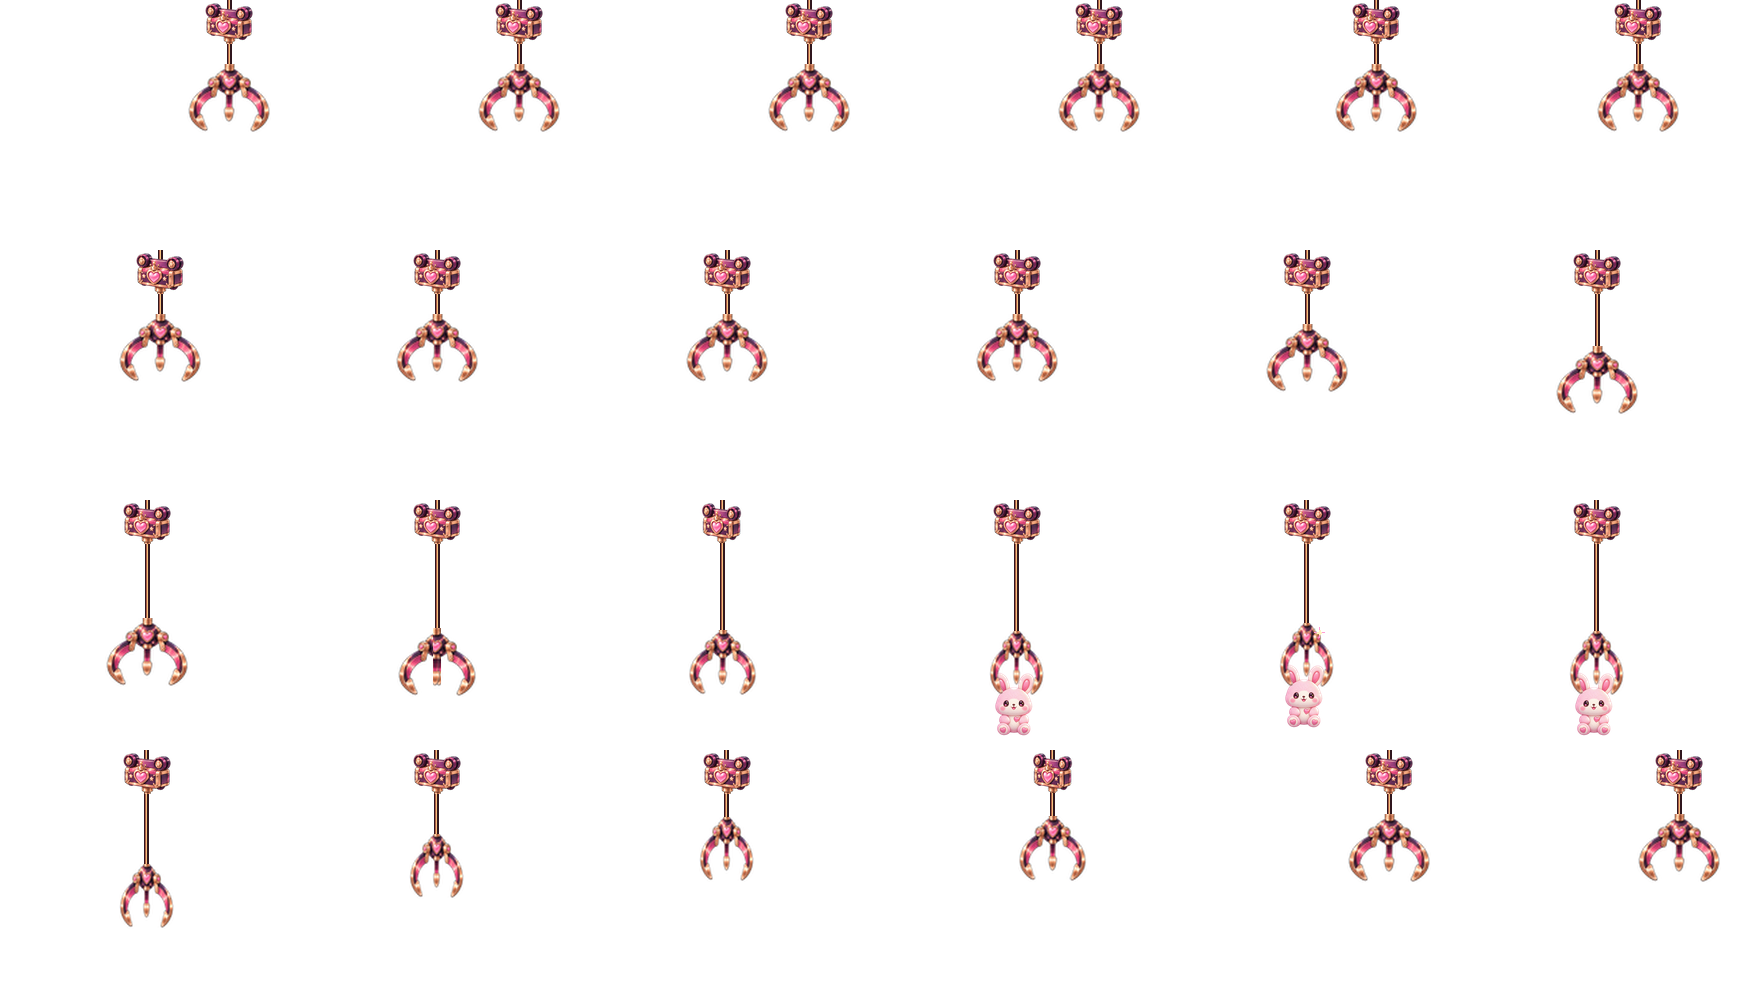
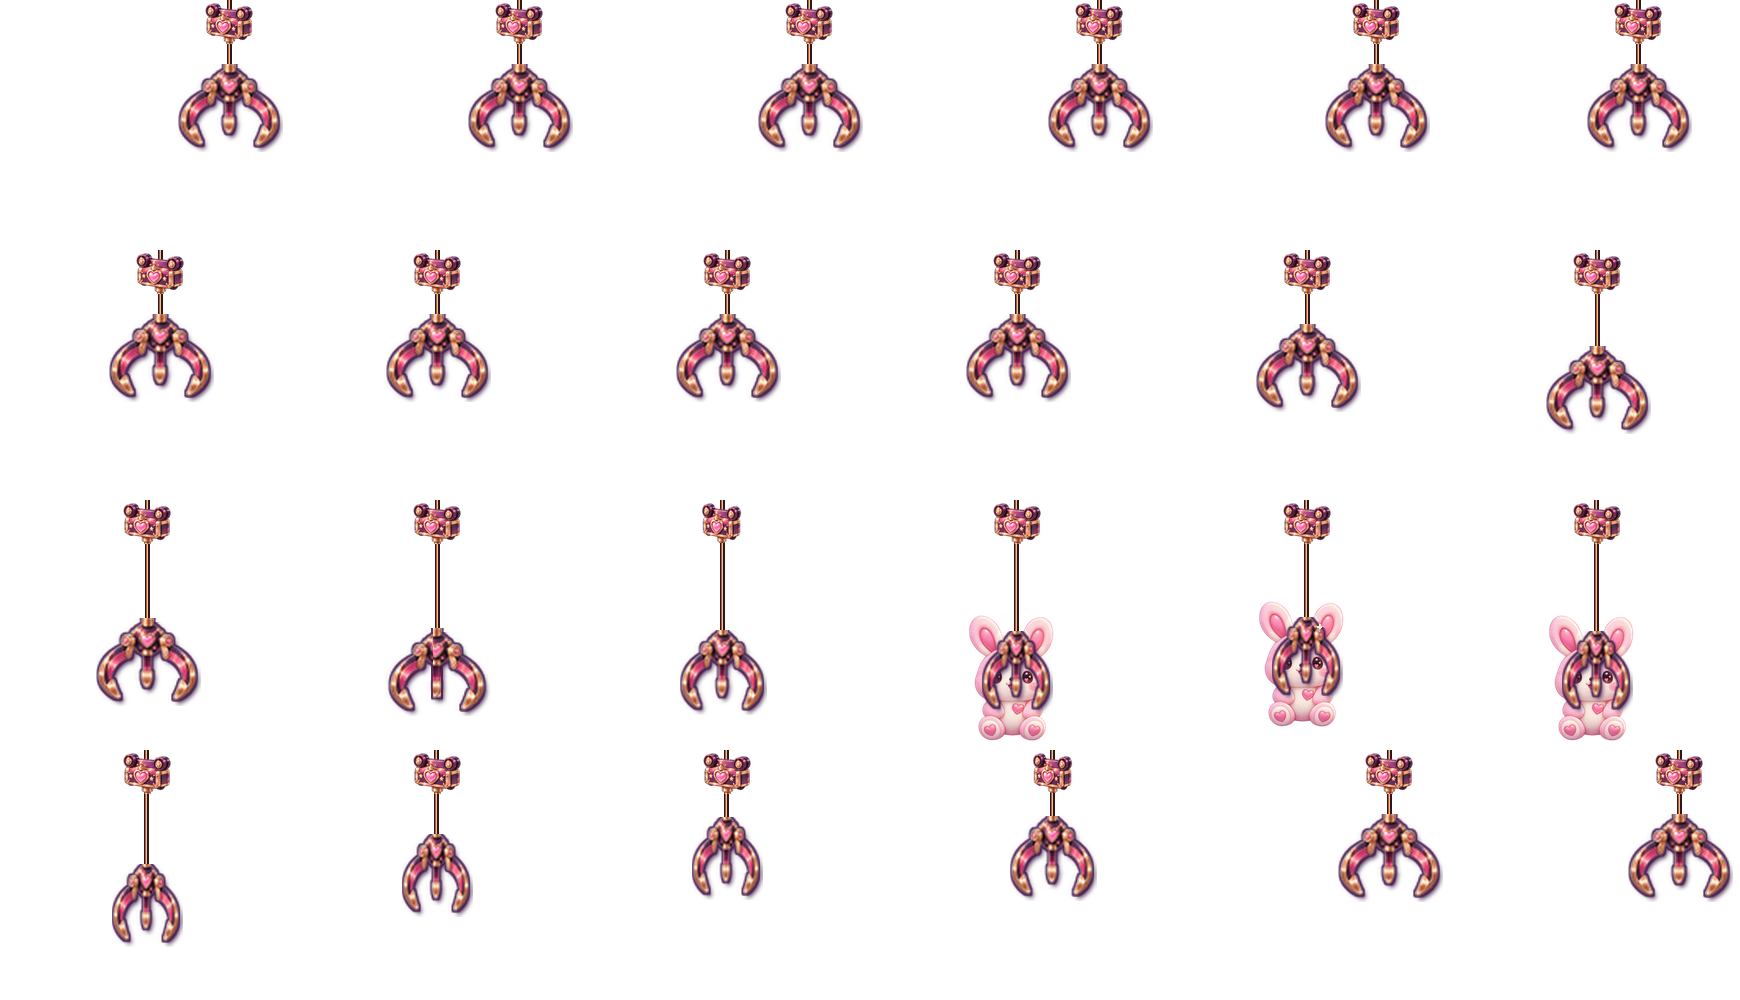
Strengthen gacha pickup and mobile animation

diff --git a/src/shooter/maps/GachaArcadeField.jsx b/src/shooter/maps/GachaArcadeField.jsx
@@ -36,6 +36,9 @@ export default function GachaArcadeField({ active = true, runtimeAnimation }) {
         const frameIndex = Math.floor((phasedElapsedMs * sprite.framesPerSecond) / 1000) % sprite.frameCount;
         if (element.dataset.frameIndex !== String(frameIndex)) {
           setSpriteFrame(element, frameIndex, sprite.columns, sprite.rows);
+          if (sprite.rotationTurns) {
+            element.style.transform = `rotate(${(frameIndex / sprite.frameCount) * sprite.rotationTurns * 360}deg)`;
+          }
         }
       });
     }, { framesPerSecond: runtimeAnimation.clockFramesPerSecond });
@@ -66,6 +69,7 @@ export default function GachaArcadeField({ active = true, runtimeAnimation }) {
             height: `${(sprite.placement.height / runtimeAnimation.canvasHeight) * 100}%`,
             left: `${(sprite.placement.x / runtimeAnimation.canvasWidth) * 100}%`,
             top: `${(sprite.placement.y / runtimeAnimation.canvasHeight) * 100}%`,
+            transformOrigin: sprite.rotationTurns ? "50% 50%" : undefined,
             width: `${(sprite.placement.width / runtimeAnimation.canvasWidth) * 100}%`,
           }}
         />

diff --git a/src/shooter/maps/skins/gachaArcade.js b/src/shooter/maps/skins/gachaArcade.js
@@ -80,12 +80,13 @@ const sprites = Object.freeze([
     columns: 6,
     rows: 4,
     frameCount: 24,
-    framesPerSecond: 6,
-    durationMs: 4000,
+    framesPerSecond: 8,
+    durationMs: 3000,
     delayMs: 0,
     phaseOffsetMs: 1000,
     scaleChange: false,
-    placement: Object.freeze({ x: 388, y: 260, width: 760, height: 601 }),
+    rotationTurns: 1,
+    placement: Object.freeze({ x: 538, y: 379, width: 460, height: 364 }),
   },
 ].map((sprite) => Object.freeze(sprite)));
 
@@ -105,7 +106,7 @@ export const GACHA_ARCADE_MAP_SKIN = Object.freeze({
       mode: "full",
       audit: Object.freeze({
         completed: true,
-        contentFingerprint: "6771cc4b",
+        contentFingerprint: "abc2d352",
         activeCssAnimations: 0,
         ambientEventLayers: 0,
         filteredElements: 0,

diff --git a/scripts/build-gacha-claw-runtime.py b/scripts/build-gacha-claw-runtime.py
@@ -2,7 +2,7 @@
 
 from pathlib import Path
 
-from PIL import Image, ImageDraw
+from PIL import Image, ImageChops, ImageDraw, ImageFilter
 
 
 ROOT = Path(__file__).resolve().parents[1]
@@ -16,7 +16,7 @@ SHEETS = (
 )
 
 PLUSH_SOURCE = SOURCE_DIR / "claw_bunny_plush_source.png"
-CLAW_RENDER_SCALE = 1.35
+CLAW_RENDER_SCALE = 1.65
 
 
 def broad_row_groups(alpha: Image.Image) -> list[list[int]]:
@@ -41,6 +41,21 @@ def add_tension_glint(frame: Image.Image, x: int, y: int) -> None:
     draw.line((x, y - 2, x, y + 2), fill=pale, width=2)
 
 
+def add_claw_with_depth(frame: Image.Image, claw: Image.Image, x: int, y: int) -> None:
+    alpha = claw.getchannel("A")
+    shadow_alpha = alpha.filter(ImageFilter.GaussianBlur(2)).point(lambda value: round(value * 0.72))
+    shadow = Image.new("RGBA", claw.size, (47, 17, 58, 0))
+    shadow.putalpha(shadow_alpha)
+    frame.alpha_composite(shadow, (x + 3, y + 4))
+
+    expanded_alpha = alpha.filter(ImageFilter.MaxFilter(5))
+    outline_alpha = ImageChops.subtract(expanded_alpha, alpha).point(lambda value: round(value * 0.9))
+    outline = Image.new("RGBA", claw.size, (74, 24, 78, 0))
+    outline.putalpha(outline_alpha)
+    frame.alpha_composite(outline, (x, y))
+    frame.alpha_composite(claw, (x, y))
+
+
 def build_runtime_sheet(source_name: str, output_name: str, frame_width: int, frame_height: int) -> None:
     source = Image.open(SOURCE_DIR / source_name).convert("RGBA")
     output = Image.new("RGBA", source.size, (0, 0, 0, 0))
@@ -49,7 +64,7 @@ def build_runtime_sheet(source_name: str, output_name: str, frame_width: int, fr
     if plush_bbox is None:
         raise RuntimeError("The generated bunny plush source has no visible pixels")
     plush_source = plush_source.crop(plush_bbox)
-    plush_height = round(frame_width * 0.22)
+    plush_height = round(frame_width * 0.44)
     plush_width = round(plush_source.width * plush_height / plush_source.height)
     plush = plush_source.resize((plush_width, plush_height), Image.Resampling.LANCZOS)
 
@@ -94,7 +109,7 @@ def build_runtime_sheet(source_name: str, output_name: str, frame_width: int, fr
             round(claw_crop.height * CLAW_RENDER_SCALE),
         ), Image.Resampling.LANCZOS)
         claw_left = center_x - claw_crop.width // 2
-        lift_y = -8 if frame_index == 16 else 0
+        lift_y = -14 if frame_index == 16 else 0
         rendered_claw_top = claw_top + lift_y
         rendered_claw_bottom = rendered_claw_top + claw_crop.height
 
@@ -107,18 +122,21 @@ def build_runtime_sheet(source_name: str, output_name: str, frame_width: int, fr
 
         if frame_index in (15, 16, 17):
             plush_x = center_x - plush_width // 2
-            plush_y = rendered_claw_bottom - round(plush_height * 0.38)
+            base_claw_bottom = claw_top + claw_crop.height
+            plush_bottom = min(frame_height - 8, base_claw_bottom + round(plush_height * 0.55)) + lift_y
+            plush_y = plush_bottom - plush_height
             runtime_frame.alpha_composite(plush, (plush_x, plush_y))
 
+        rendered_claw = claw_crop
         if frame_index == 13:
             # Add one visible articulation step without resizing the fingers.
             half = claw_crop.width // 2
             left_half = claw_crop.crop((0, 0, half + 2, claw_crop.height))
             right_half = claw_crop.crop((half - 2, 0, claw_crop.width, claw_crop.height))
-            runtime_frame.alpha_composite(left_half, (claw_left + 2, rendered_claw_top))
-            runtime_frame.alpha_composite(right_half, (claw_left + half - 4, rendered_claw_top))
-        else:
-            runtime_frame.alpha_composite(claw_crop, (claw_left, rendered_claw_top))
+            rendered_claw = Image.new("RGBA", claw_crop.size, (0, 0, 0, 0))
+            rendered_claw.alpha_composite(left_half, (2, 0))
+            rendered_claw.alpha_composite(right_half, (half - 4, 0))
+        add_claw_with_depth(runtime_frame, rendered_claw, claw_left, rendered_claw_top)
 
         # The carriage follows the rail horizontally but never descends with the claw.
         runtime_frame.alpha_composite(carriage_crop, (carriage_left, 2))
